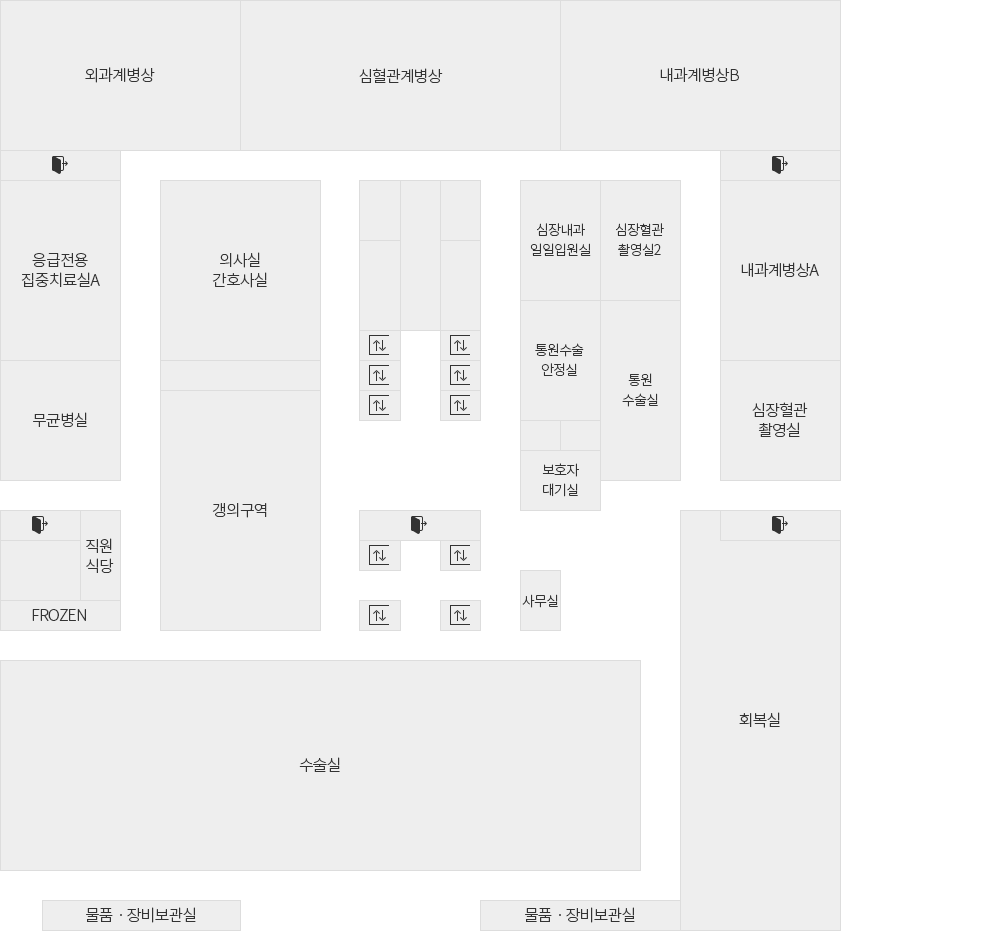
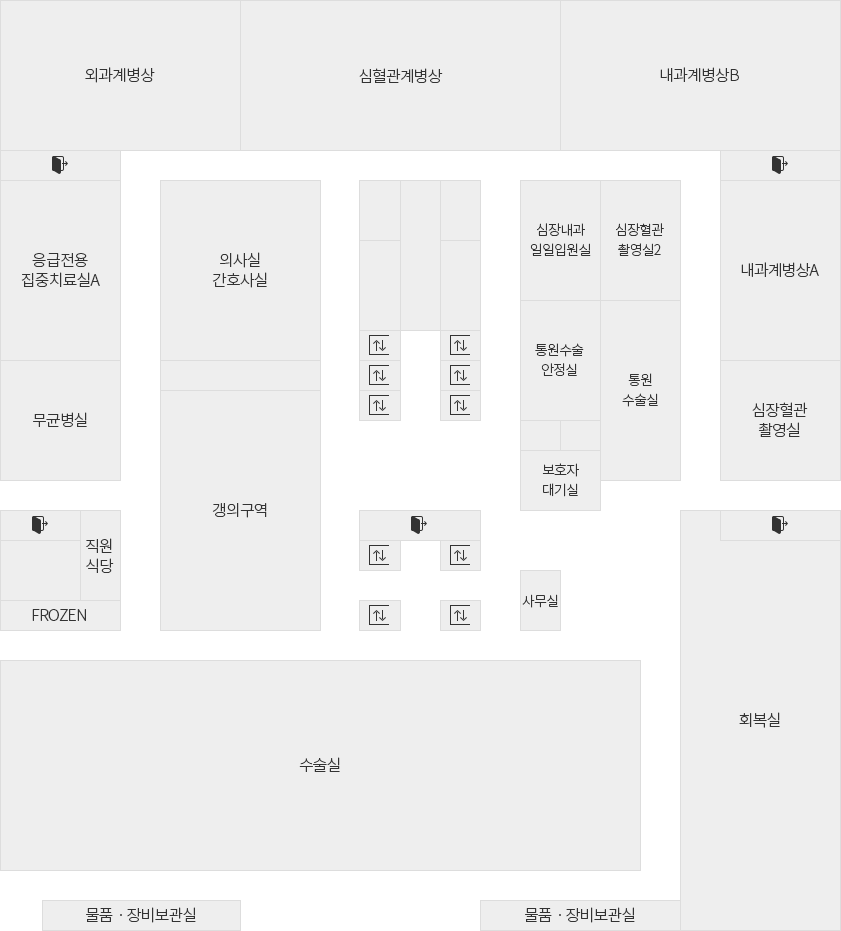
층별안내 이미지 여백 삭제, 중앙정렬으로 수정

diff --git a/css/common2.css b/css/common2.css
@@ -789,9 +789,9 @@ ul.bxslider {  list-style: none;}
 .floor-tab .floor-list li button.active{background: #0770bb; color: #fff; border:0;}
 .floor-tab .floor-list li:first-child button{border-top: 1px solid #dddddd; }
 .floor-tab .floor-box{width: 1100px;min-height: 880px;  border:1px solid #dddddd ;float: right; position: relative; }
-.floor-tab .floor-box .con{padding: 30px 50px; display: none}
+.floor-tab .floor-box .con{padding: 30px 50px; display: none;text-align:center;}
 .floor-tab .floor-box .con.active{display: block;}
-.floor-tab .floor-box .con h2{font-size:24px;color:#000;font-family: 'NotoKrM',sans-serif ; font-weight: normal;background-color: #fff;}
+.floor-tab .floor-box .con h2{font-size:24px;color:#000;font-family: 'NotoKrM',sans-serif ; font-weight: normal;background-color: #fff;text-align:left;}
 .floor-tab .floor-box .con img{margin-top: 30px}
 .floor-tab .floor-box .info{font-size:14px;color:#777;font-family: 'NotoKrR',sans-serif ; font-weight: normal; line-height: 33px; position: absolute; top: 23px; right: 10px;}
 .floor-tab .floor-box .info span{ margin-right: 12px;}
